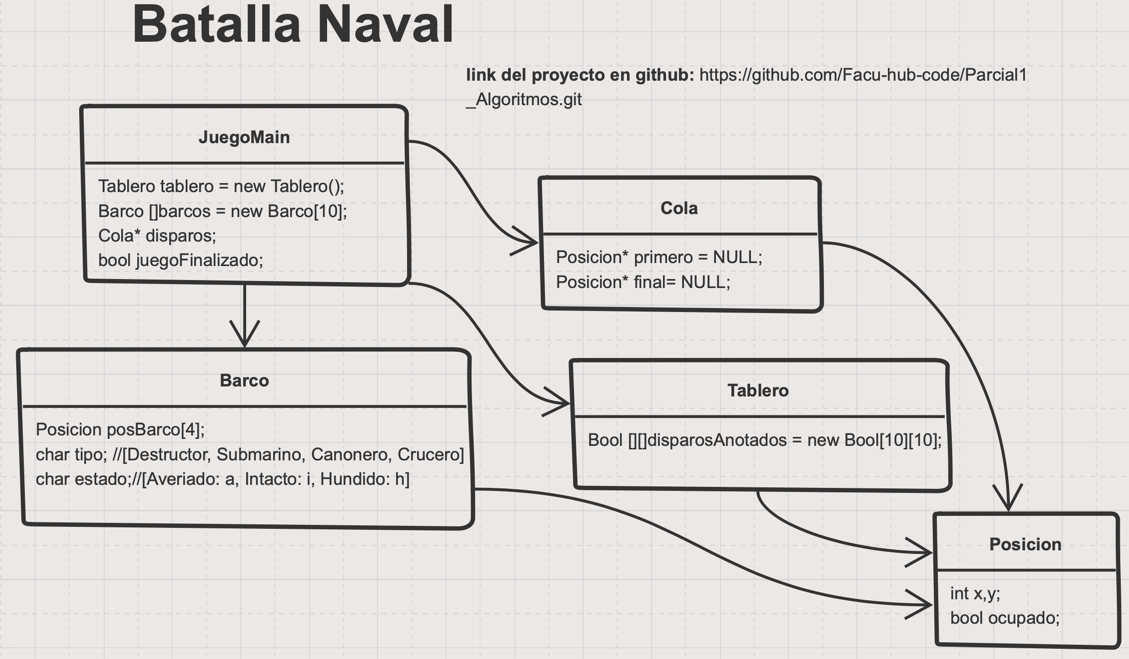
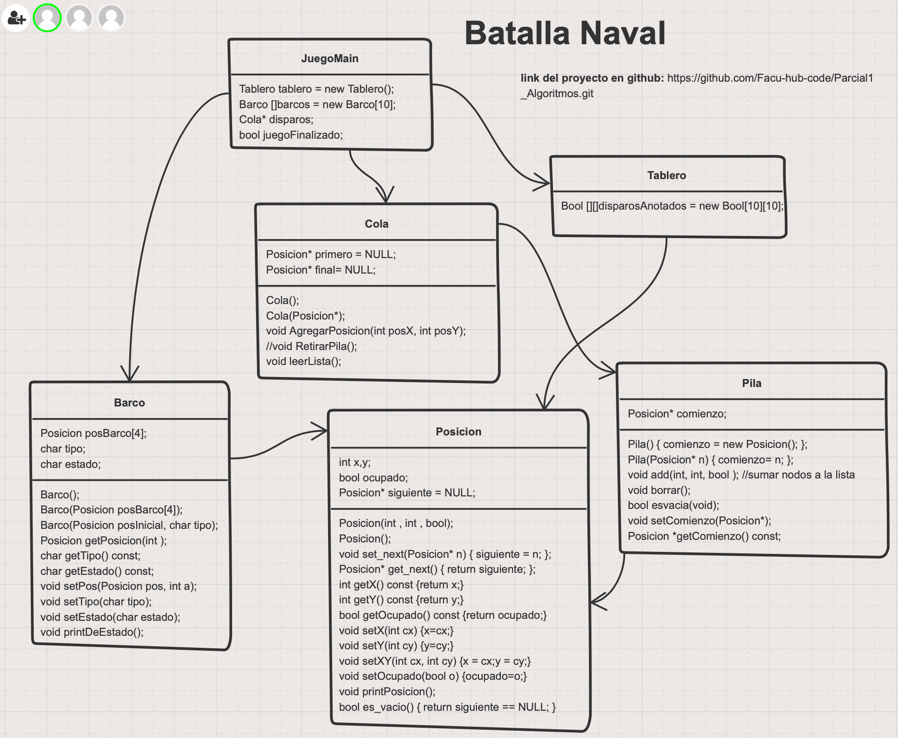
"Version 1.0"

Changed region(s): [[0.0, 0.0, 0.9978, 1.0], [0.4989, 0.0303, 0.7483, 0.0607], [0.7795, 0.3945, 0.8107, 0.4249]]

diff --git a/Posicion.h b/Posicion.h
@@ -15,10 +15,6 @@ public:
     //Constructores
     Posicion(int , int , bool);
     Posicion();
-
-    bool es_vacio() { return siguiente == NULL; }
-
-    //Puntero
     Posicion* siguiente = NULL;
     void set_next(Posicion* n) { siguiente = n; };
     Posicion* get_next() { return siguiente; };
@@ -36,5 +32,7 @@ public:
 
     //Print
     void printPosicion();
+
+    bool es_vacio() { return siguiente == NULL; }
 };
 #endif //CODIGO_POSICION_H

diff --git a/Barco.h b/Barco.h
@@ -9,7 +9,6 @@
 class Barco {
 public:
     Barco();
-    Barco(Posicion posBarco[4]);
     Barco(Posicion posInicial, char tipo);
     Posicion getPosicion(int );
     char getTipo() const;
